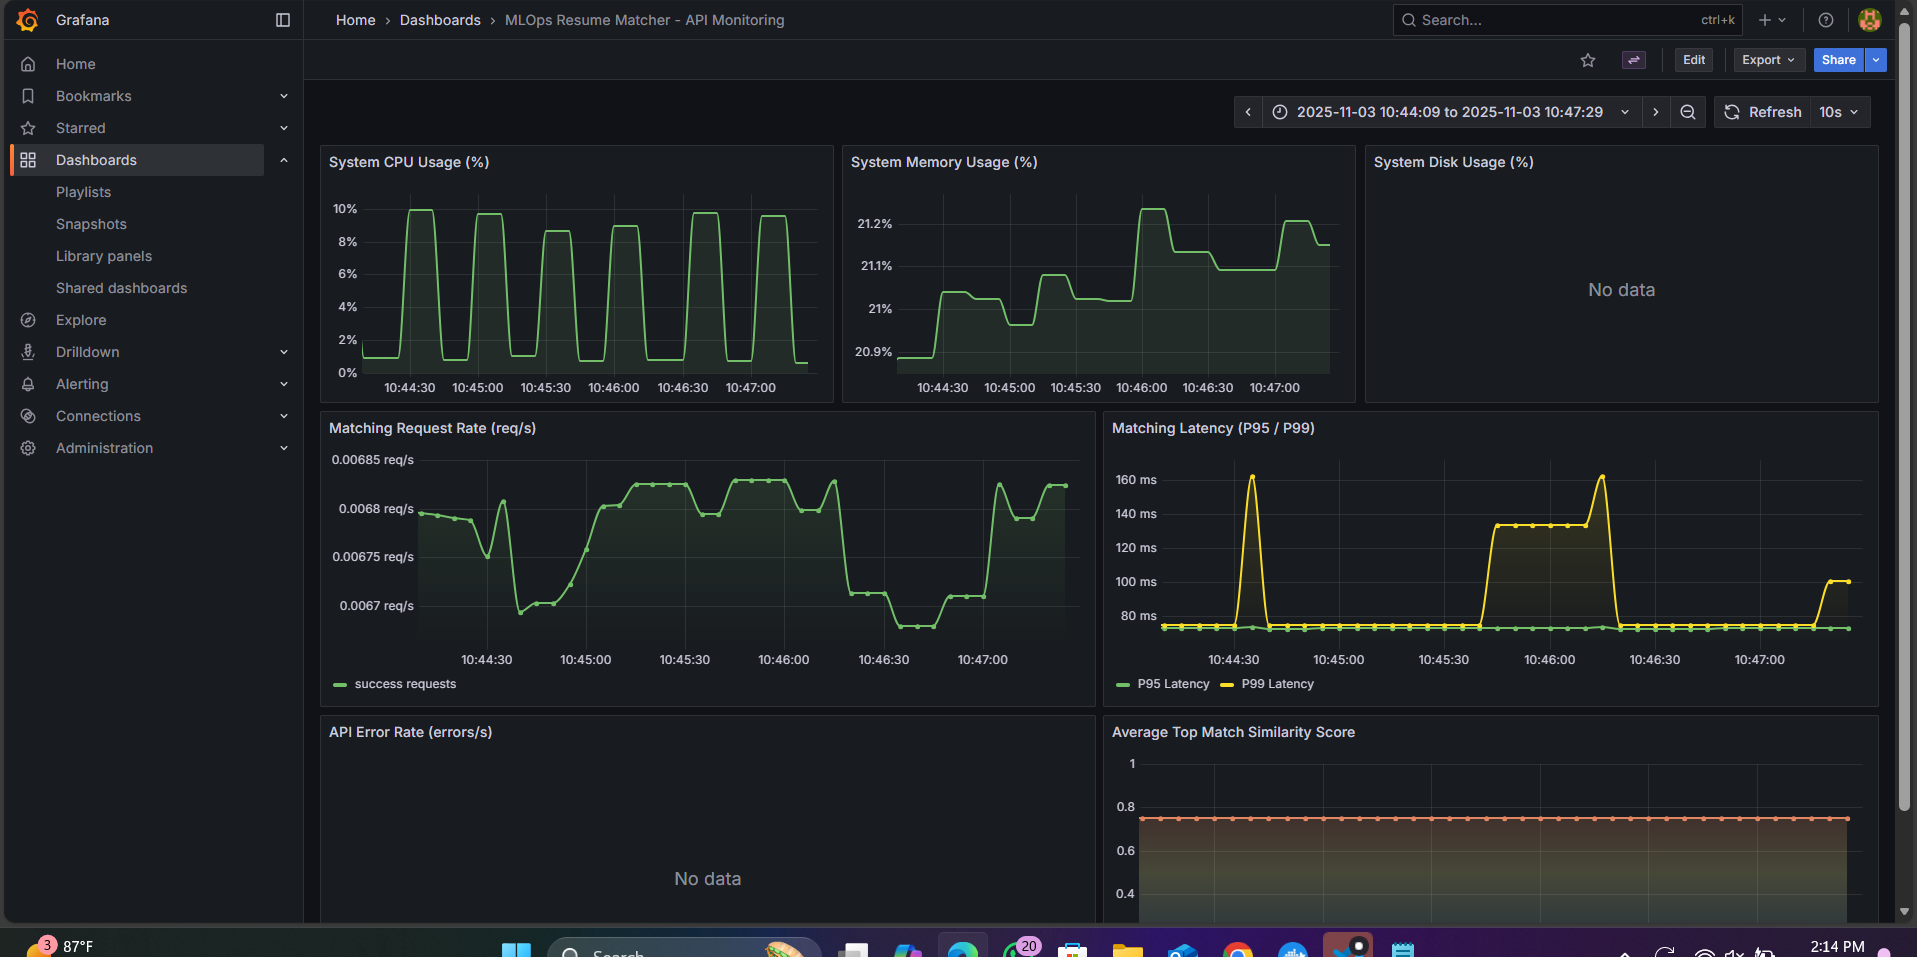
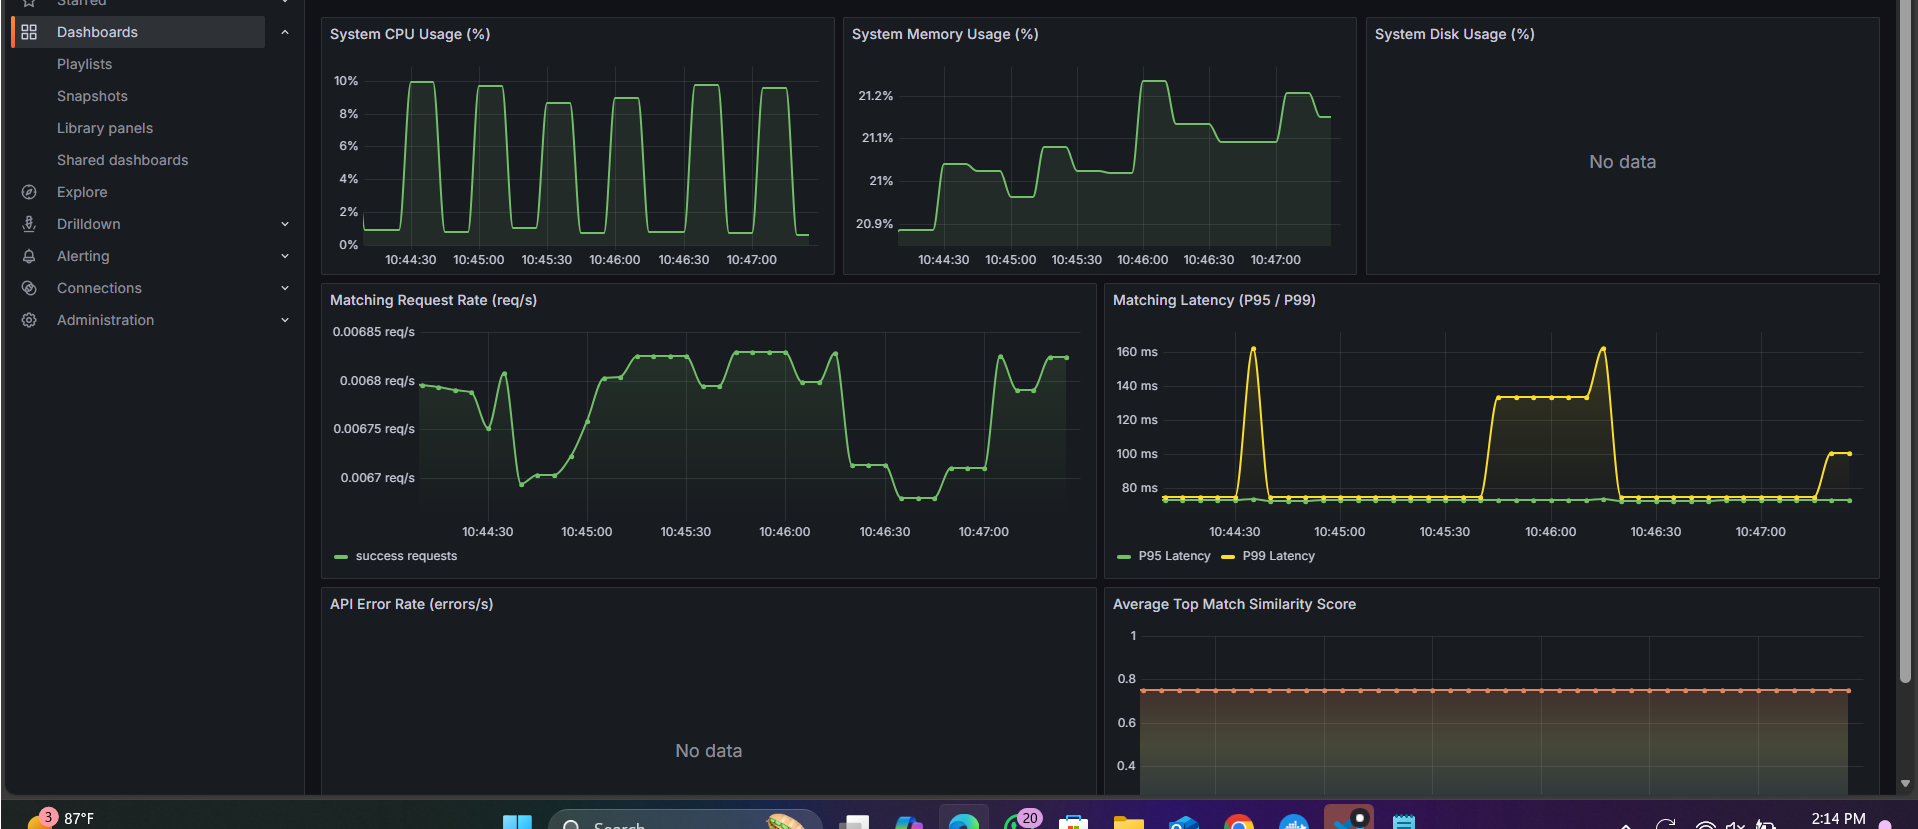
added ReadME

diff --git a/README.md b/README.md
@@ -110,11 +110,11 @@ Here's a preview of the key components of the MLOps Resume Matcher in action.
 
 **Experiment Tracking (MLflow)**
 *Tracking models, artifacts, and parameters.*
-![MLflow Experiments](./docs/screenshots/mlflow_experiments.png)
+![MLflow Experiments](./docs/screenshots/mlflow.png)
 
 **Data Drift Report (Evidently)**
 *Visualizing drift in the resume text data.*
-![Evidently Drift Report](./docs/screenshots/evidently_drift_report.png)
+![Evidently Drift Report](./docs/screenshots/evidently.png)
 
 ---
 
